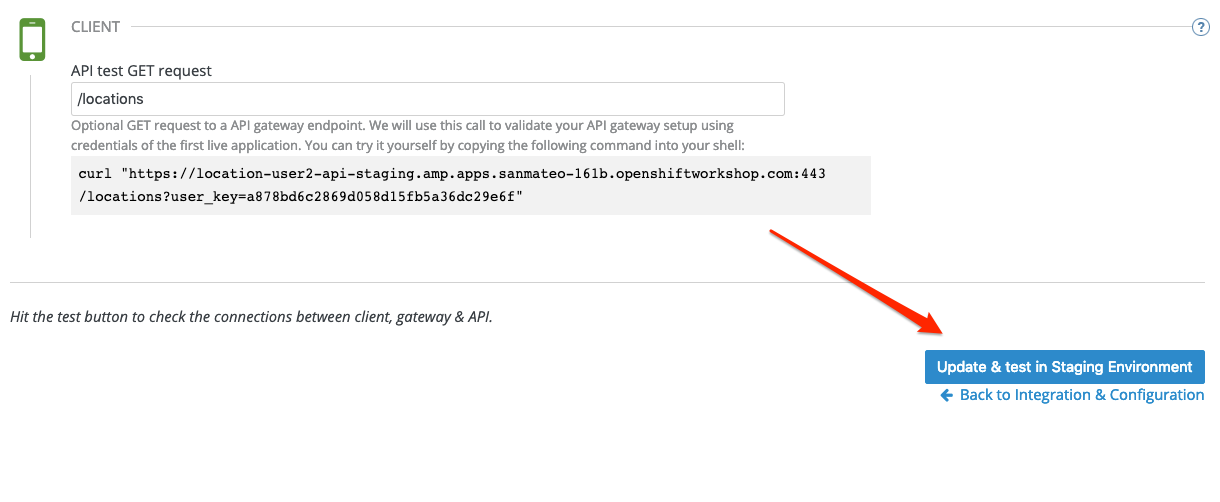
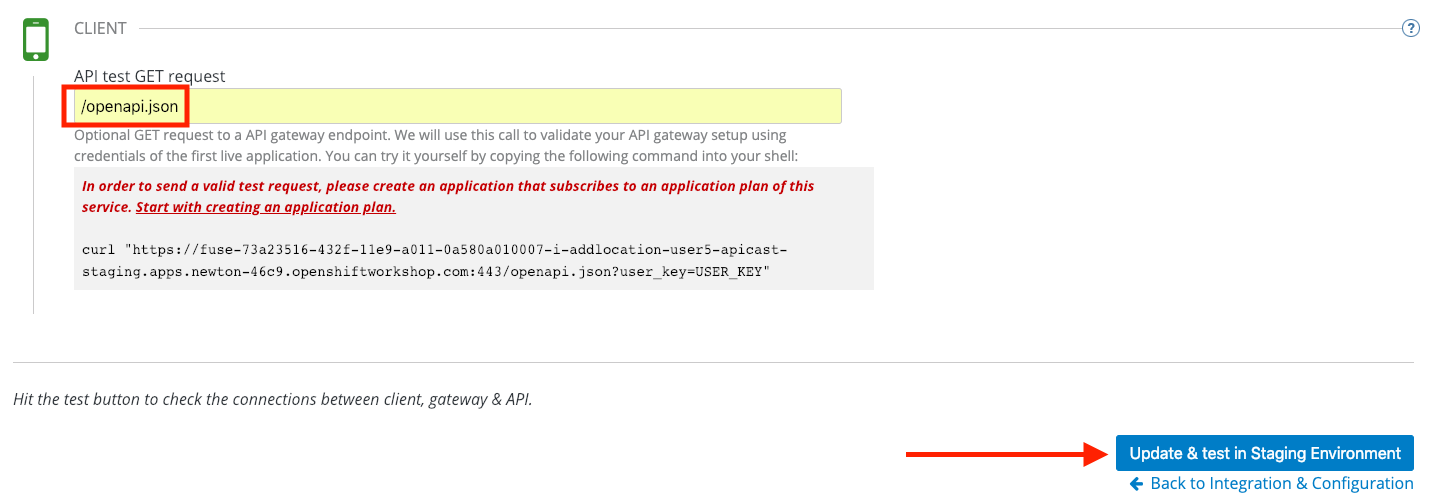
Fleshed out lab07 content

diff --git a/docs/labs/citizen-integrator-track/lab07/README.md b/docs/labs/citizen-integrator-track/lab07/README.md
@@ -1,6 +1,6 @@
 # Lab 7
 
-## Fuse Online & Three Scale Smart Discovery Bonus Lab
+## Fuse Online & 3Scale Smart Discovery Bonus Lab
 
 * Duration: 20 mins
 * Audience: Developers and Architects
@@ -72,7 +72,7 @@ Once the environment is provisioned, you will be presented with a page that pres
     Connection URL: jdbc:postgresql://postgresql.international.svc:5432/sampledb
     Username      : dbuser
     Password      : password
-    Schema        : <blank>
+    Schema        : <leave blank>
     ```
 
 1. Click **Validate** and verify if the connection is successful. Click **Next** to proceed.
@@ -256,7 +256,7 @@ We will use 3scale to secure our newly deployed Fuse Online integration.  We int
 
     ![secure-04.png](images/secure-04.png)
 
-1. Click on **Authenticate to enable this option** so we can import our new API from OpenShift.  Enter your userX credentials and click **Login**.
+1. Click on **Authenticate to enable this option** so we can import our new API from OpenShift.
 
     ![secure-05.png](images/secure-05.png)
 
@@ -290,7 +290,10 @@ We will use 3scale to secure our newly deployed Fuse Online integration.  We int
 
     ![secure-09.png](images/secure-09.png)
 
-1. Leave the settings for `Private Base URL`as it is. Update the `Staging Public Base URL` and `Production Public Base URL` fields, by removing the **fuse-<blah>** information in the URL.  If you have done this correctly, your page should look similar to below:
+1. Leave the settings for `Private Base URL`as it is. Update the `Staging Public Base URL` and `Production Public Base URL` fields, by removing the **fuse-<blah>** information in the URL.  The new urls should look similar to this (*remember to update your user number*):
+
+    * Staging Public Base: `https://i-addlocation-userX-apicast-staging.amp.apps.newton-46c9.openshiftworkshop.com:443`
+    * Production Public Base URL: `https://i-addlocation-user5-apicast-production.amp.apps.newton-46c9.openshiftworkshop.com:443`
 
     ![secure-10.png](images/secure-10.png)
 
@@ -310,11 +313,11 @@ We will use 3scale to secure our newly deployed Fuse Online integration.  We int
 
 1. Fill in the information for your Fuse Method.
 
-    * Friendly name: **Get Locations**
+    * Friendly name: **Add Locations**
 
-    * System name: **locations_all**
+    * System name: **add_location**
 
-    * Description: **Method to return all locations**
+    * Description: **Method to add a new location**
 
     ![07b-new-method-data.png](images/07b-new-method-data.png)
 
@@ -324,99 +327,84 @@ We will use 3scale to secure our newly deployed Fuse Online integration.  We int
 
     ![07b-add-mapping-rule.png](images/07b-add-mapping-rule.png)
 
-1. Click on the edit icon next to the GET mapping rule.
+1. Click on the **Add Mapping Rule** link.
 
     ![07b-edit-mapping-rule.png](images/07b-edit-mapping-rule.png)
 
-1. Type in the *Pattern* text box the following:
+1. Select **POST** as the Verb.  Type in the *Pattern* text box the following:
 
     ```bash
     /locations
     ```
 
-1. Select **locations_all** as Method from the combo box.
+1. Select **add_location** as Method from the combo box.
 
     ![07b-getall-rule.png](images/07b-getall-rule.png)
-
-### Step 4: Define your API Policies
-
-Red Hat 3scale API Management provides units of functionality that modify the behavior of the API Gateway without the need to implement code. These management components are know in 3scale as policies.
-
-The order in which the policies are executed, known as the “policy chain”, can be configured to introduce differing behavior based on the position of the policy in the chain. Adding custom headers, perform URL rewriting, enable CORS, and configurable caching are some of the most common API gateway capabilities implemented as policies.
-
-1. Scroll down and expand the **POLICIES** section to define the allowed methods on our exposed API.
-
-    ![01-policies](images/policies-01.png "Policies")
-
-    *The default policy in the Policy Chain is APIcast. This is the main policy and most of the times you want to keep it*.
-
-1. Click the **Add Policy** link to add a new policy to the chain.
-
-    ![02-add-policy](images/policies-02.png)
-
-    _Out-of-the-box 3scale includes a set of policies you can use to modify the way your API gateway behaves. For this lab, we will focus on the **Cross Origin Resource Sharing (CORS)** one as we will use it in the consumption lab_.
-
-1. Click in the **CORS** link to add the policy.
-
-    ![03-cors-policy](images/policies-03.png "CORS")
-
-1. Put your mouse over the right side of the policy name to enable the reorder of the chain. Drag and drop the CORS policy to the top of the chain.
-
-    ![04-chain-order](images/policies-04.png "Chain Order")
-
-1. Now **CORS** policy will be executed before the **APIcast**. Click the **CORS** link to edit the policy.
-
-    ![05-cors-configuration](images/policies-05.png "Cors Configuration")
-
-1. In the *Edit Policy* section, click the green **+** button to add the allowed headers.
-
-    ![06-add-headers](images/policies-06.png "Add Allow Headers")
-
-1. Type **Authorization** in the *Allowed headers* field.
-
-    ![07-authorization-header](images/policies-07.png "Add Authorization Header")
-
-1. Tick the **allow_credentials** checkbox and fill in with a star (**\***) the *allow_origin* text box.
-
-    ![08-allow-origin](images/policies-08.png "Allow Origin")
-
-1. Click twice the green **+** button under *ALLOW_METHODS* to enable two combo boxes for the CORS allowed methods.
-
-1. Select **GET** from the first box and **OPTIONS** from the second box.
-
-    ![09-allow-methods](images/policies-09.png "Allow Methods")
-
-1. Click the **Update Policy** button to save the policy configuration.
-
-### Step 4: Configure the Upstream Endpoint
-
-1. Scroll back to the top of the page. Fill in the information for accessing your API:
-
-    * Private Base URL: **http://location-service.international.svc:8080**
-
-    * Staging Public Base URL: **https://location-userX-api-staging.amp.apps.newton-46c9.openshiftworkshop.com:443**
-
-    * Production Public Base URL: **https://location-userX-api.amp.apps.newton-46c9.openshiftworkshop.com:443**
-
-    *Remember to replace the X with your user number*.
-
-    *We are using the internal API service, as we are deploying our services inside the same OpenShift cluster*.
-
-    ![07-baseurl-configuration.png](images/07-baseurl-configuration.png)
 
 1. Scroll down to the **API Test GET request**.
 
 1. Type in the textbox:
 
     ```bash
-    /locations
+    /openapi.json
     ```
 
 1. Click on the **Update the Staging Environment** to save the changes and check the connection between client, gateway and API.
 
     ![08-update-staging.png](images/08-update-staging.png)
 
-    *If everything works, you will get a green message on the left*.
+    *You should expect to get an error message*.
+
+1.  Our integration update is in error because we haven't yet created an application plan.  To do this, click on the link inside of the the error message
+
+    ![04-create-application-plan](images/04-create-application-plan.png)
+
+1.  Click **Create Application Plan** link again.
+
+    ![04-create-application-plan](images/04-create-app-plan.png)
+
+1.  Enter the Application Plan details, then click **Create Application Plan**.
+
+    * Name: **basic-integration**
+
+    * System name: **basic-integration**
+
+    ![04-app-plan-details](images/04-app-plan-details.png)
+
+1. Click on *Publish** to publish your newly minted plan.
+
+    ![04-click-publish](images/04-click-publish.png)
+
+1.  Click on the **API: i-addlocation** dropdown menu, then select **Audience**.  Next click **Listing** on the side menu.  A listing of *Accounts* should appear.  Next click the **Developer** Account.
+
+    ![04-setup-account](images/04-setup-account.png)
+
+1. An Account configuration page should appear.  Click on the *1 Application* link at the top of the page.
+
+    [04-click-application](images/04-click-application.png)
+
+1. Click on **Create Application**
+
+    [04-click-create-app](images/04-click-create_app.png)
+
+1. Select *basic-integration* as the **Application Plan**.  Select *Default* as the **Service Plan**.  Enter **i-integration** as the Name.  Click *Create Application*.  An Application page should appear.  It will contain a newly created API User Key for use with your new `i-integration` application.
+
+    [04-enter-app-details](images/04-enter-app-details.png)
+
+1.  Next, click on the Integration > Configuration side-menu.
+
+    [04-integration-configuration](images/04-integration-configuration.png)
+
+1. Next, click on *edit APIcast configuration**.
+
+    [04-edit-api-config](images/04-edit-api-config.png)
+
+
+1. Click on the **Update the Staging Environment** to save the changes and check the connection between client, gateway and API.
+
+        ![08-update-staging.png](images/08-update-staging.png)
+
+        *If everything works, you will get a green message on the left*.
 
 1. Click on **Back to Integration &amp; Configuration** link to return to your API overview.
 
